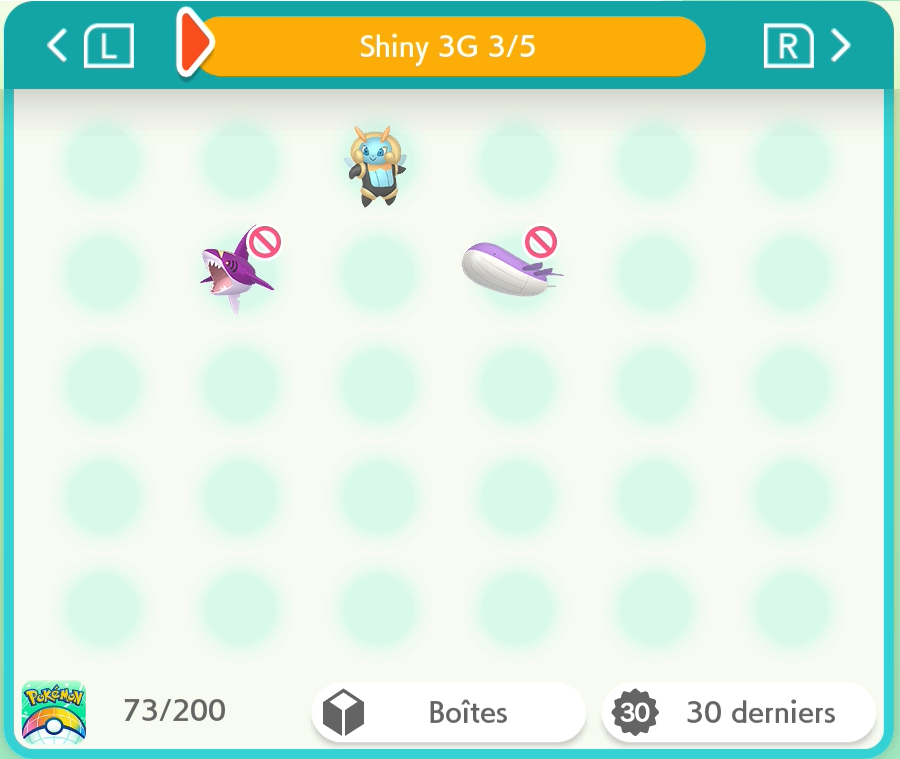
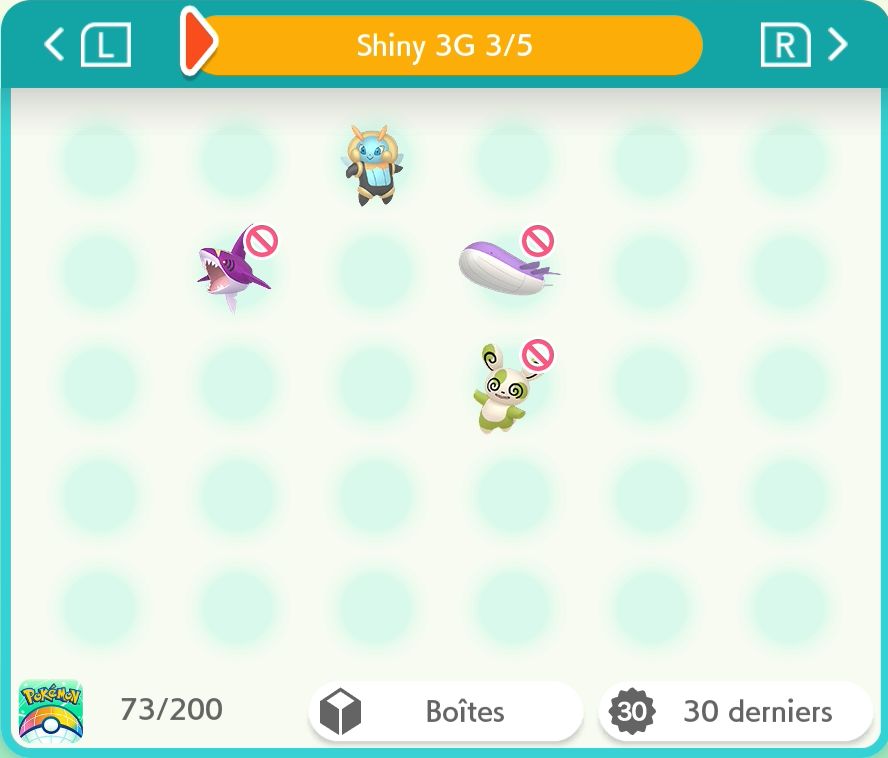
3G : Spinda

diff --git a/README.md b/README.md
@@ -2,7 +2,37 @@
 
 Pokémon-Elément-Sh -> <a href="https://www.pokemon-element-sh.fr/profil/karyno21" target="_blank">Karyno21</a>
 
-↓ Dernière Update le 6/06/2026 à 14h01 ↓
+↓ Dernière Update le 12/08/2026 à 18h49 ↓
+### Dex National [262/999] +1
+
+| Gen | Prog | Notes |
+|:--:|:--:|---|
+|1G|42/151||
+|2G|32/100||
+|3G|22/135|+1 Spinda|
+|4G|20/107||
+|5G|28/154||
+|6G|22/70||
+|7G|16/84||
+|8G|32/90||
+|9G|45/108||
+
+### Formes Régionales [58/58]
+
+| Forme | Prog | Notes |
+|:--:|:--:|---|
+|Alola|18/18|Complété|
+|Galar|19/19|Complété|
+|Hisui|17/17|Complété|
+|Paldea|4/4|Complété|
+
+---
+
+## Historiques
+
+<details>
+  <summary>06/06/2026 - Toutes les formes régionales</summary>
+  
 ### Dex National [261/999] +25
 
 | Gen | Prog | Notes |
@@ -27,8 +57,7 @@ Pokémon-Elément-Sh -> <a href="https://www.pokemon-element-sh.fr/profil/karyno
 |Paldea|4/4|+3 Complété Axoloto, Tauros Aquatique & Flamboyant|
 
 ---
-
-## Historiques
+</details>
 
 <details>
   <summary>20/05/2026 - Début de l'aventure</summary>
